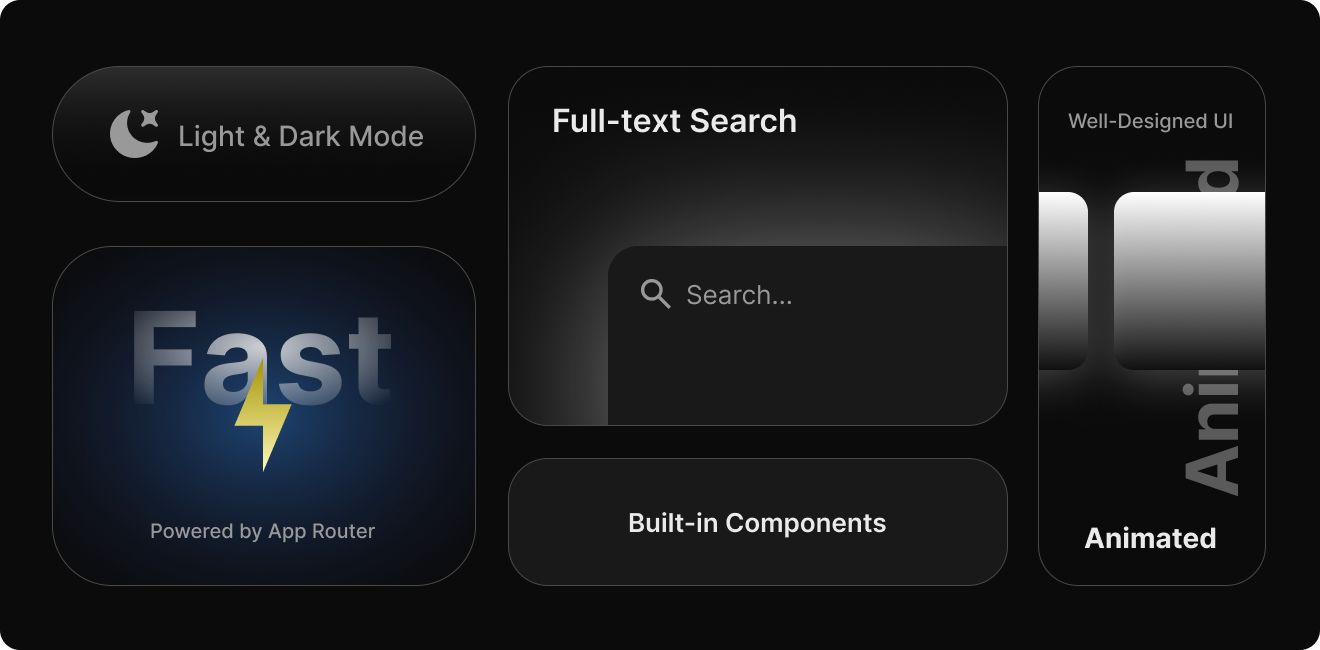
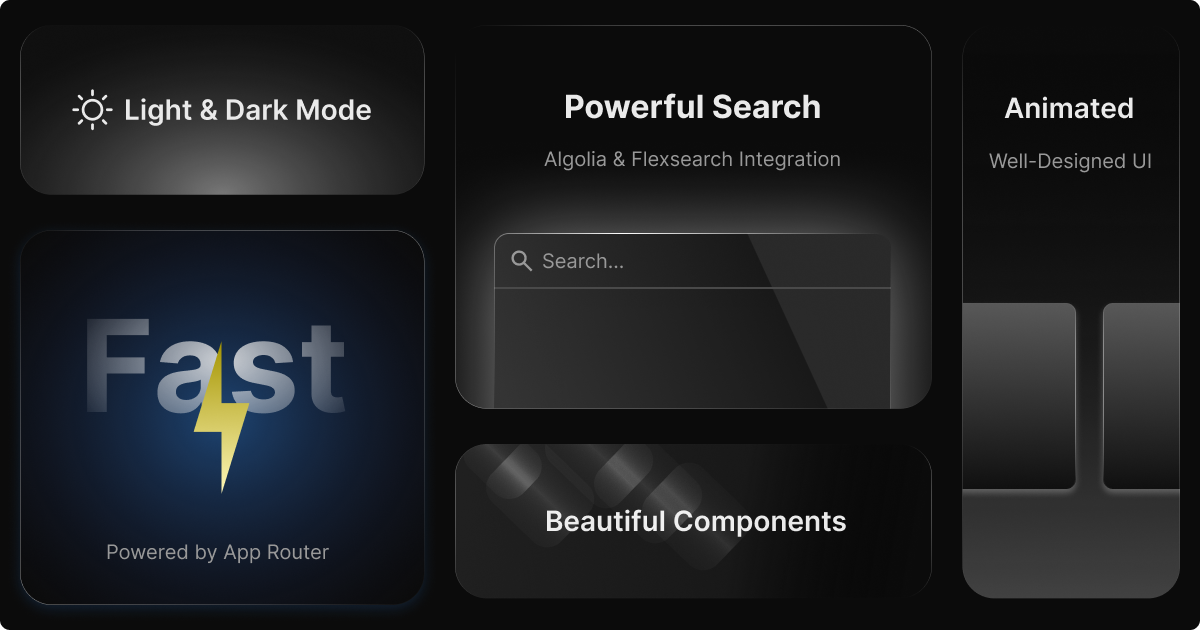
Update Open graph image & features image

diff --git a/apps/docs/utils/metadata.ts b/apps/docs/utils/metadata.ts
@@ -7,7 +7,7 @@ export function createMetadata(override: Metadata): Metadata {
       title: override.title ?? undefined,
       description: override.description ?? undefined,
       url: 'https://next-docs-zeta.vercel.app',
-      images: '/features.png',
+      images: '/banner.png',
       siteName: 'Next Docs',
       ...override.openGraph
     },
@@ -16,7 +16,7 @@ export function createMetadata(override: Metadata): Metadata {
       creator: '@money_is_shark',
       title: override.title ?? undefined,
       description: override.description ?? undefined,
-      images: '/features.png',
+      images: '/banner.png',
       ...override.twitter
     }
   }